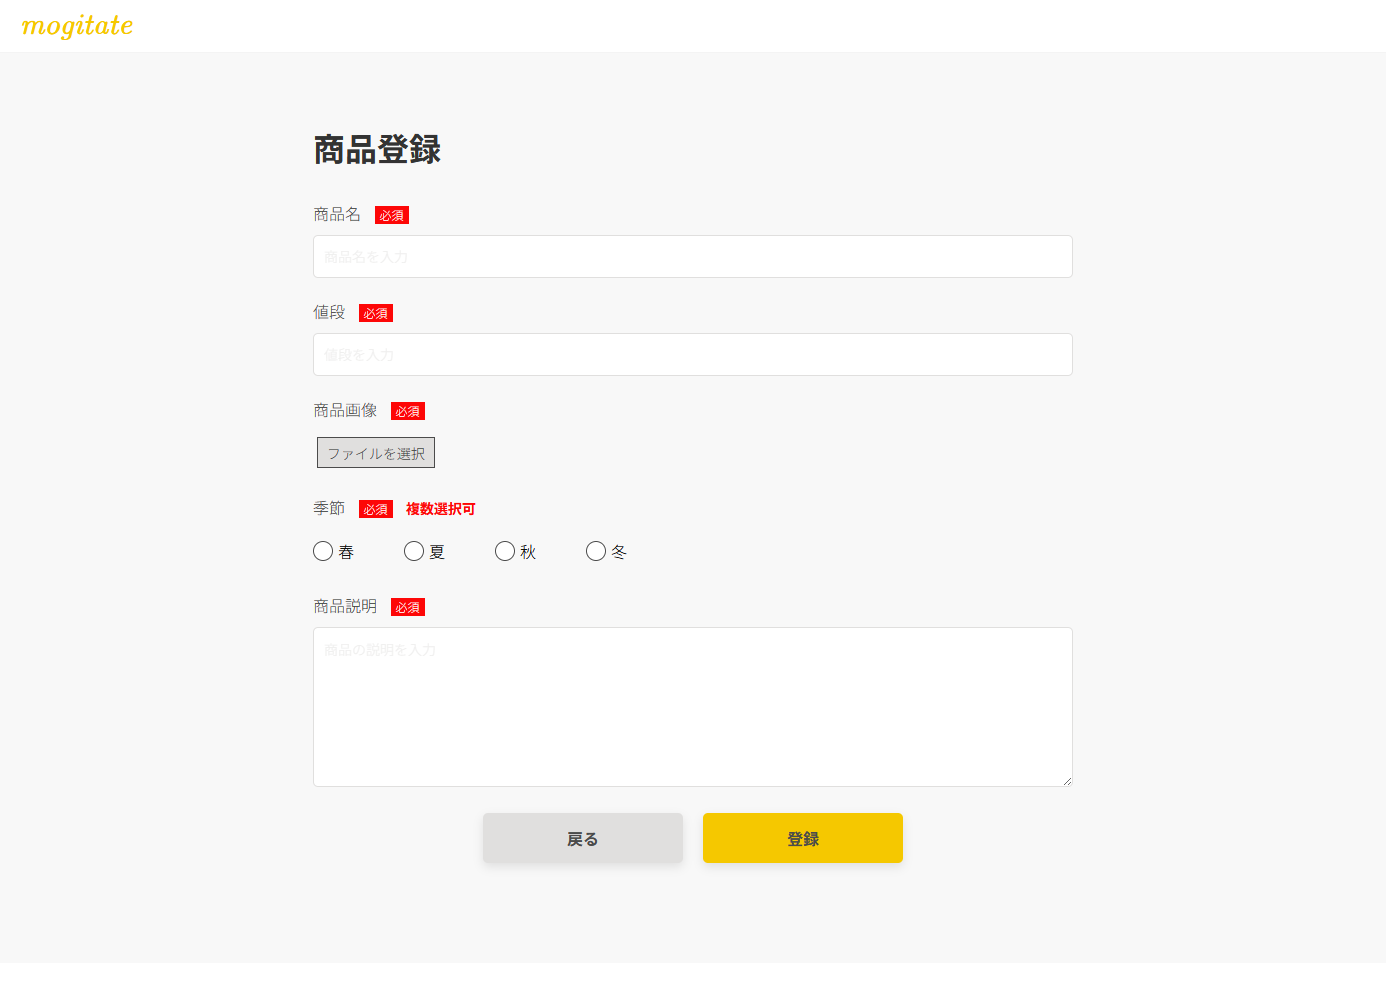
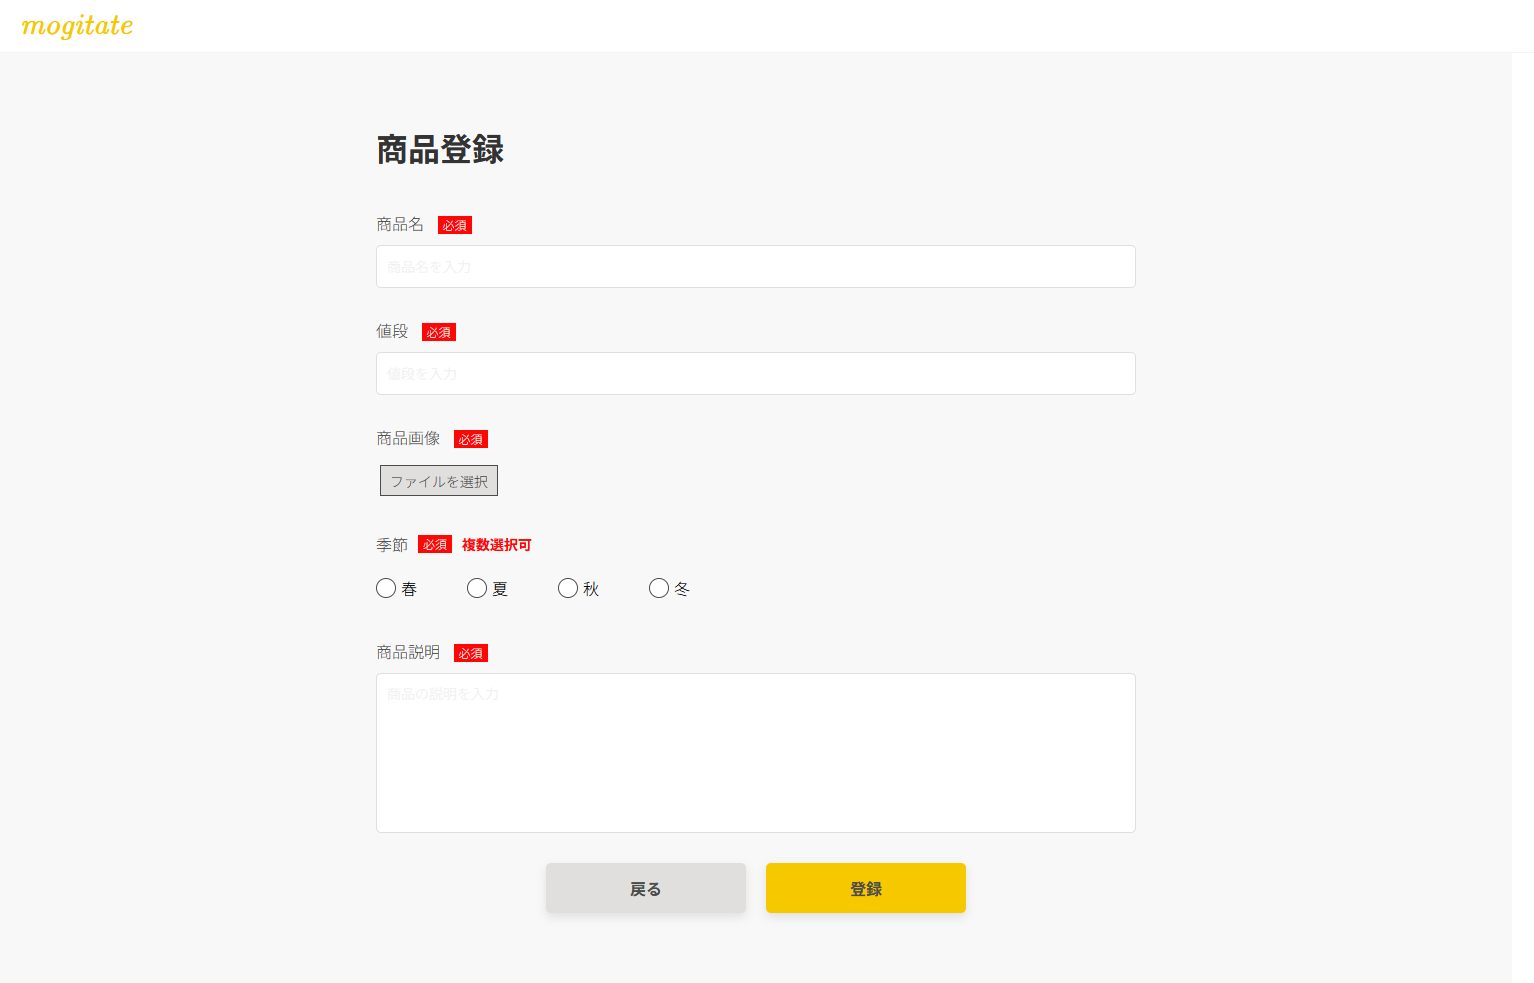
products＆common＆register各CSS微調整&README.mdイメージ入替

diff --git a/src/public/css/products.css b/src/public/css/products.css
@@ -1,9 +1,10 @@
 .product-container {
+    width: 100%;
+    height: 929px;
     display: flex;
     flex-direction: column;
     justify-content: center;
     align-items: center;
-    gap: 20px;
 }
 
 /*商品一覧文字と追加ボタンのstyle*/
@@ -13,11 +14,12 @@
     height: 50px;
     justify-content: space-between;
     padding: 0 40px;
+    margin-bottom: 20px;
 }
 
 /*商品一覧文字*/
 .title-name {
-    width: 128px;
+    width: 70%;
     height: 48px;
     line-height: 48px;
     display: block;
@@ -52,7 +54,7 @@
 /*画面全体のstyle*/
 .product {
     width: 100%;
-    height: 100%;
+    height: 790px;
     display: flex;
     padding: 0 40px;
     gap: 30px;
@@ -61,17 +63,16 @@
 /*商品名検索フォームのstyle*/
 .products-search {
     width: 240px;
-    height: 100%;
-    border-bottom: 1px solid rgb(219, 219, 204);
+    height: auto;
 }
 
 .products-search-form {
     width: 100%;
-    height: 100%;
+    height: auto;
     display: flex;
     flex-direction: column;
-    justify-content: center;
-    align-items: flex-start;
+    justify-content: flex-start;
+    align-items: center;
     gap: 40px;
 }
 
@@ -131,6 +132,7 @@
     justify-content: center;
     align-items: flex-start;
     padding-bottom: 20px;
+    border-bottom: 1px solid rgb(219, 219, 204);
 
 }
 
@@ -255,7 +257,7 @@
     border: 1px solid rgba(245, 200, 0, 1);
     border-radius: 21px;
     padding: 10px;
-    margin-bottom: 10px;
+    margin: 10px 0;
     position: relative;
 }
 

diff --git a/src/public/css/register.css b/src/public/css/register.css
@@ -5,9 +5,7 @@
     display: flex;
     flex-direction: column;
     align-items: center;
-    gap: 40px;
     padding: 70px 376px;
-    box-sizing: border-box;
 }
 
 .title-name {
@@ -17,10 +15,13 @@
     font-weight: 600;
     text-align: left;
     color: rgba(51, 51, 51, 1);
+    margin: 0;
+    margin-bottom: 40px;
 }
 
 .register-form {
     width: 760px;
+    height: 702px;
 }
 
 /* フォーム要素 */
@@ -34,6 +35,7 @@
     height: 24px;
     display: flex;
     align-items: center;
+    margin: 0;
     margin-bottom: 10px;
 }
 

diff --git a/src/public/css/product_detail.css b/src/public/css/product_detail.css
@@ -37,6 +37,7 @@
 /*チェックボックスまでのcontainer*/
 .product-options-container {
     display: flex;
+    height: 353px;
     gap: 30px;
 }
 
@@ -49,6 +50,7 @@
 /*画像イメージ*/
 .detail-image {
     width: 100%;
+    height: 281px;
 }
 
 /*商品名＆値段＆チェックボックス*/

diff --git a/src/public/css/common.css b/src/public/css/common.css
@@ -34,6 +34,7 @@ body * {
     text-align: left;
     font-size: 14px;
     font-weight: 300;
+    margin: 0;
 }
 
 /*コントローラーからのメッセージ*/

diff --git a/README.md b/README.md
@@ -3,9 +3,9 @@
 ### mogitate（モギタテ）商品登録管理編集アプリ
 
 ![mogitateアプリの画面1](products.png)
-![mogitateアプリの画面2](products_search_query.png)
-![mogitateアプリの画面3](products_search_query_high.png)
-![mogitateアプリの画面4](products_search_query_low.png)
+![mogitateアプリの画面2](products_search.png)
+![mogitateアプリの画面3](products_search_high_to_low.png)
+![mogitateアプリの画面4](products_search_low_to_high.png)
 ![mogitateアプリの画面5](products_detail.png)
 ![mogitateアプリの画面6](products_register.png)
 
